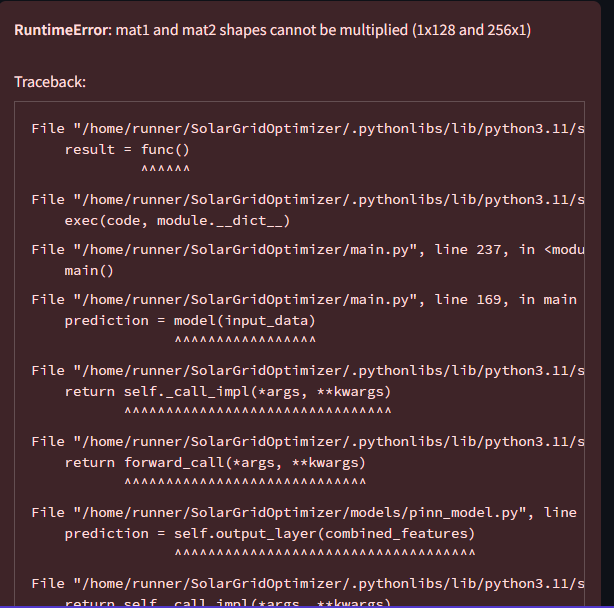
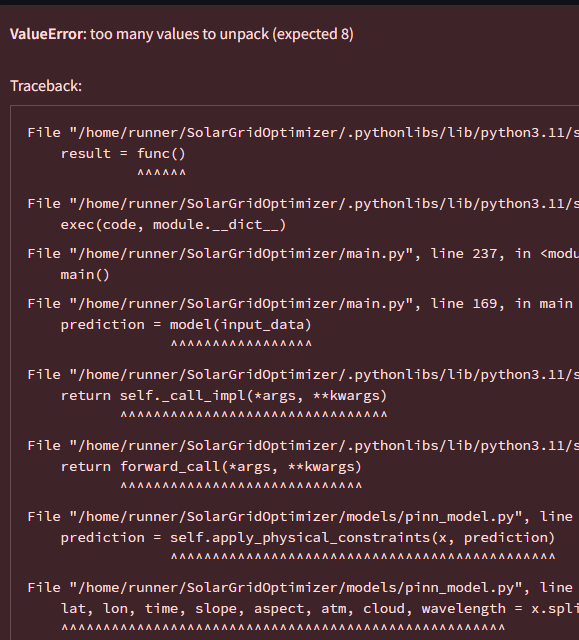
Agent query: Input verisi bölme hatası çözüldü mü? Model şu anda düzgün çalışıyor mu?

Changed region(s): [[0.0, 0.0, 1.0, 1.0]]

diff --git a/models/pinn_model.py b/models/pinn_model.py
@@ -90,7 +90,15 @@ class SolarPINN(nn.Module):
         
     def apply_physical_constraints(self, x, prediction):
         """Apply physical constraints to predictions"""
-        lat, lon, time, slope, aspect, atm, cloud, wavelength = x.split(1, dim=1)
+        # Ensure input tensor has correct shape and split it
+        components = x.split(1, dim=1)
+        if len(components) >= 8:
+            lat, lon, time, slope, aspect, atm, cloud, wavelength = components[:8]
+        else:
+            # Handle case with fewer components
+            print(f"Warning: Expected 8 components, got {len(components)}")
+            return prediction
+            
         max_possible = self.calculate_max_possible_irradiance(lat, time)
         atmospheric_attenuation = self.calculate_atmospheric_attenuation(atm, cloud)
         surface_factor = self.calculate_surface_orientation_factor(lat, lon, time, slope, aspect)
